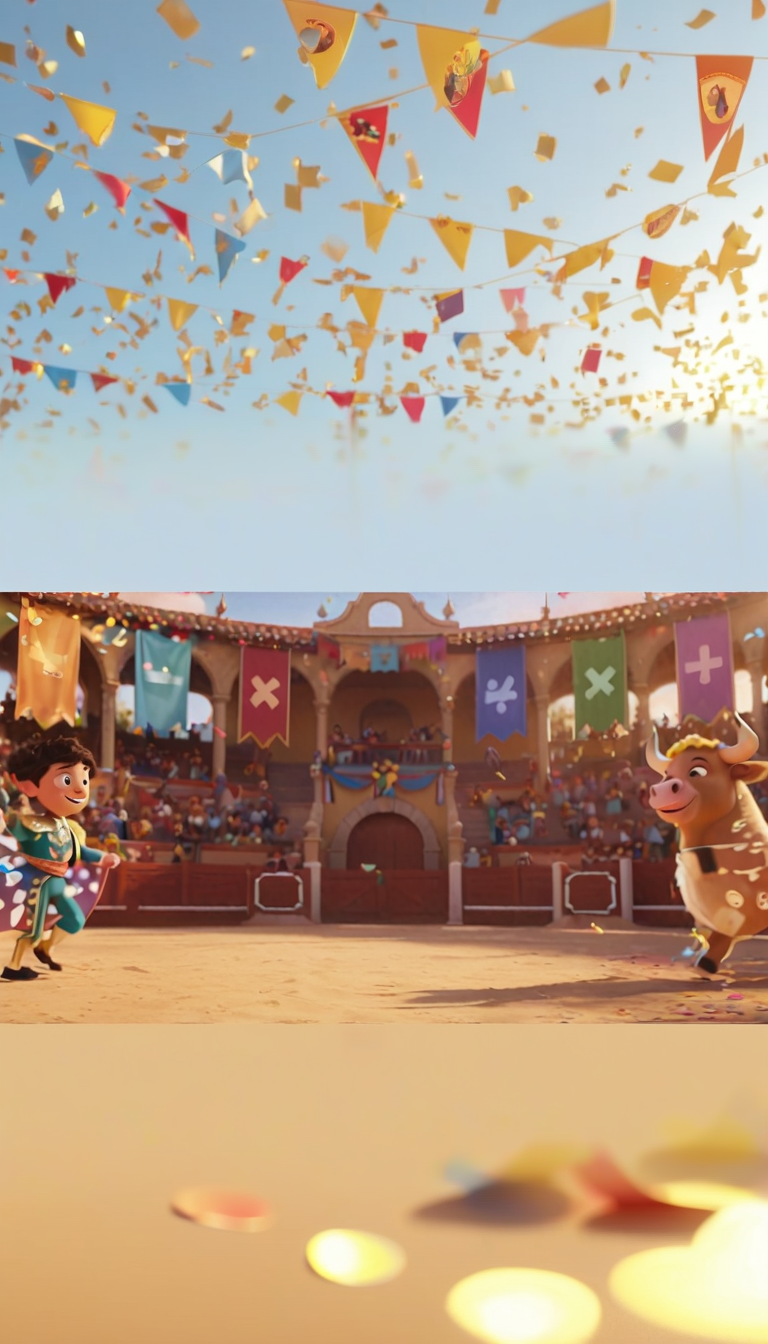
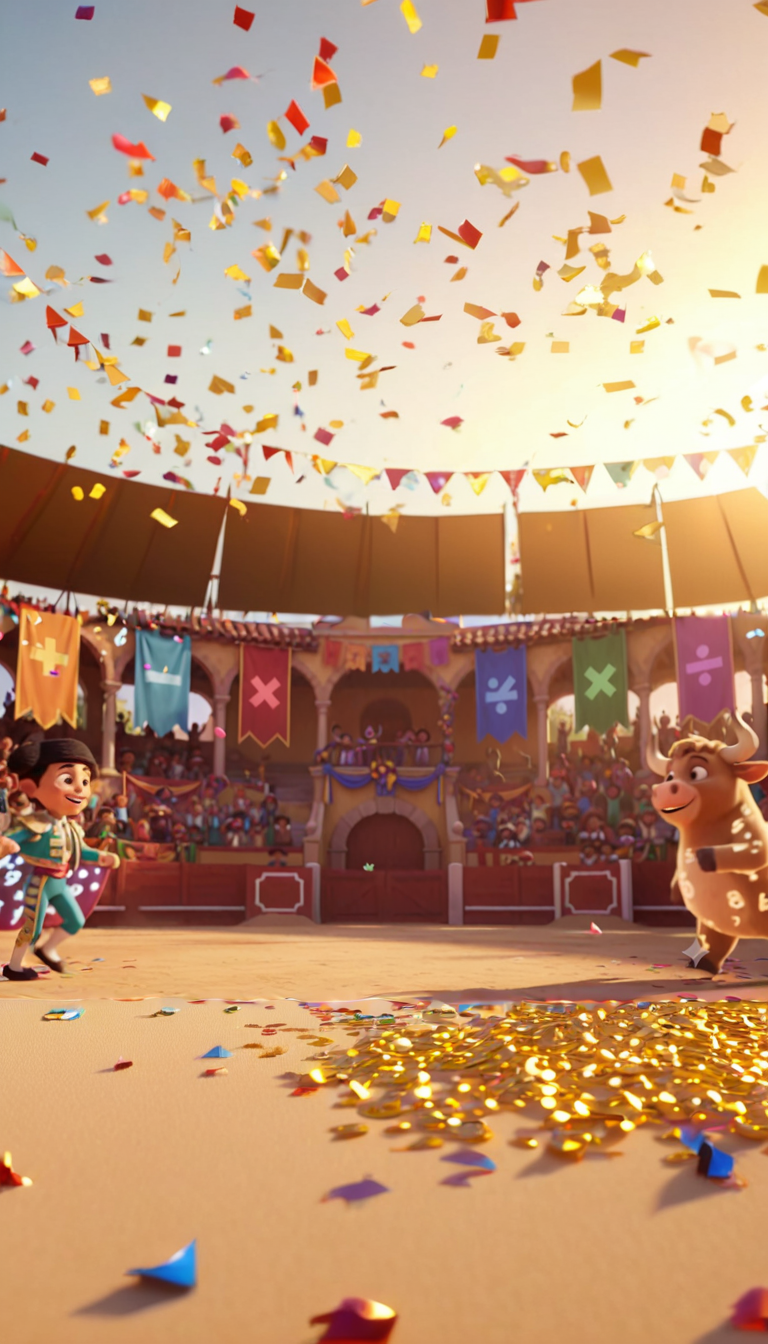
Switch all couple-scene backgrounds to single-pass outpainting
Replaces the two-pass hand-built-mask technique (screen-*.json +
screen-*-extend.json + mask-*.png) with ComfyUI's own ImagePadForOutpaint
+ VAEEncodeForInpaint nodes, which do the pad/feather/mask in one
purpose-built step directly from an unpadded character crop. Removes
the remaining visible seam that the mask-based two-pass version still
had on Game and Result, and gives Home the same fix for consistency.

Also documents that the ComfyUI instance moved: the original
(D:\confyiu, port 8000) had its Desktop-app instance record and
.venv accidentally deleted, so a fresh instance was created and
reconnected to the same D:\confyiu\models directory via
extra_model_paths.yaml rather than re-downloading ~20GB of
checkpoints. comfy-mcp's COMFYUI_URL still points at the old port
until its MCP connection is restarted.

diff --git a/mathematador-app/assets/working/comfy-workflows/README.md b/mathematador-app/assets/working/comfy-workflows/README.md
@@ -27,8 +27,27 @@ concept sketch — **not** this reference. Don't seed generations from it.
 
 ## Setup this assumes
 
-- A running ComfyUI instance (the user's ComfyUI Desktop app, `D:\confyiu`, port 8000
-  in this session — adjust host/port to whatever's current).
+- A running ComfyUI instance. **As of 2026-09-21, this moved**: the original
+  instance (`D:\confyiu`, port 8000) had its Desktop-app instance record and
+  its `.venv` deleted by accident. Rather than restore it, a fresh instance
+  was created through the Desktop app's own "New Instance" flow — it lives at
+  `D:\Comfy-Desktop\ComfyUI-Installs\ComfyUI\ComfyUI`, **port 8188** (auto-
+  assigned; check `C:\Users\<user>\AppData\Roaming\Comfy Desktop\port-locks\`
+  if it's changed again). `D:\confyiu` itself is untouched and still holds
+  every model/checkpoint — the new instance reads them via
+  `D:\Comfy-Desktop\ComfyUI-Installs\ComfyUI\ComfyUI\extra_model_paths.yaml`
+  (base_path `D:\confyiu\models`), so they were never re-downloaded. The five
+  custom node folders were copied by hand into the new instance's own
+  `custom_nodes/` (not shareable via extra_model_paths — ComfyUI loads node
+  code from its own folder) and their `requirements.txt` installed into the
+  new `.venv` with `UV_SYSTEM_CERTS=1` set first (same corporate-TLS
+  workaround as everywhere else in this repo). **`comfy-mcp`'s `COMFYUI_URL`
+  in `~/.claude.json` still points at the old port 8000** — updating it needs
+  the MCP connection restarted, which didn't happen this session, so this
+  session drove the new instance with raw `curl` against `/prompt`,
+  `/history/<id>`, `/upload/image`, `/view` directly instead. Update that env
+  var (or just keep using curl) before assuming `run_workflow` etc. work
+  again.
 - **`JuggernautXL_v9.safetensors`** (`RunDiffusion/Juggernaut-XL-v9` on Hugging Face,
   ~7.1GB) — the current checkpoint for stills. SDXL, native 1024x1024, far
   stronger prompt adherence than the SD1.5 checkpoints below. Slower per
@@ -74,54 +93,58 @@ what actually preserves it.** All three couple-scene workflows now use this;
 apply it to any future one seeding from a frame where the bull's numbers
 need to stay legible.
 
-## The visual, tweakable graph — `mathematador-universal.json`
+## The current technique: `ImagePadForOutpaint` + `VAEEncodeForInpaint`, one pass
 
-Everything above was submitted straight to ComfyUI's `/prompt` API
-(`comfy-mcp`'s `run_workflow`), which runs a workflow but never loads it into
-the ComfyUI GUI's canvas — nothing was ever visible/tweakable in the app
-window. `mathematador-universal.json` fixes that: it's a proper UI-format
-graph (node positions, visible links, an on-canvas usage note), saved at
-`D:\confyiu\user\default\workflows\mathematador.json` so it shows up directly
-in the ComfyUI Desktop app's own Workflows sidebar — open it there to inspect
-or hand-tweak any node. This copy in the repo is a backup; the live one to
-edit is the one in ComfyUI's own user-data folder.
+Earlier attempts (kept below for context, but don't repeat them) used a
+hand-rolled two-pass approach: pad the character crop with solid-color bands
+in Python, generate the character at low denoise, then run a *second*
+workflow with a hand-built soft-edge mask PNG to regenerate just the padding.
+It worked but always left at least a faint seam.
 
-It also uses a cleaner technique than the two-pass hack below: ComfyUI's
-built-in `ImagePadForOutpaint` + `VAEEncodeForInpaint` nodes do the
-pad+feather+mask in one built-for-purpose step, instead of a hand-rolled
-Python mask script and a separate second workflow. Feed it any unpadded
-character crop (`reference-couple-gesture-unpadded.png` is the one currently
-loaded) and it extends it to a full portrait background in a single
-KSampler pass, with the character region fully protected regardless of the
-(intentionally 1.0) denoise value — read the note node on the canvas itself
-for the exact how-to. **Prefer this graph over the `screen-*.json` /
-`screen-*-extend.json` two-pass approach below for anything new**; that
-section is kept only as a record of what didn't work as well.
+**`screen-home-extend.json` / `screen-game-extend.json` /
+`screen-result-extend.json` now all use ComfyUI's own built-in outpainting
+nodes instead — one pass, no Python mask script:**
 
-## Key finding: the low-denoise couple scenes need a second masked pass (superseded, see above)
+1. `LoadImage` — an **unpadded** character crop (`reference-couple-*-
+   unpadded.png`; a real `intro.mp4` frame, dynamic pose, resized to 768 wide,
+   no color bands added).
+2. `ImagePadForOutpaint(image, left, top, right, bottom, feathering=80)` —
+   pads to the target canvas (768x1344) and outputs both the padded image
+   and a correctly-feathered mask in one step. `feathering` below ~80 still
+   leaves a visible ring at the boundary; 80 is the current minimum that
+   doesn't.
+3. `VAEEncodeForInpaint(pixels, vae, mask, grow_mask_by=6)` → `KSampler`
+   at **denoise 1.0** — this is correct, not a bug: the mask (not denoise)
+   is what protects the character region regardless of the denoise value.
+4. One `CLIPTextEncode` conditions the *entire* masked region (both the top
+   and bottom bands) at once — write it as two explicit clauses ("above the
+   roofline: ...", "below the floor: ...") or content invented for one end
+   bleeds into the other (an early attempt asked only for "terracotta roof
+   tiles above" and got upside-down roof tiles at the bottom too). Negative-
+   prompt "archway, arch, tunnel, foreground pillar" — otherwise the model
+   invents an unrelated foreground structure at the top instead of
+   continuing the same wall.
 
-The denoise-0.3 fix above (preserving the bull's numbers) leaves the solid
-sky-blue/sand-tan padding bands from the seed-image construction almost
-untouched too — they read as flat, obviously-fake color gaps top and bottom.
-Fix: a **second pass**, `screen-*-extend.json`, that masks OUT the already-
-correct character band (protect, denoise ~0) and masks IN just the top/bottom
-padding (regenerate at denoise 0.95) via `SetLatentNoiseMask` + a hand-built
-soft-edge mask PNG (`mask-*.png` — white=regenerate, black=protect, black,
-~150-180px gaussian-style feather at the boundary; a hard-edge mask produces
-a visible seam even at full protect/regenerate contrast). Two more gotchas
-found fixing this:
-- The single `CLIPTextEncode` conditions the WHOLE masked region (both top
-  and bottom bands) at once — describing only the top ("terracotta roof
-  tiles above") bled into the bottom too and produced upside-down roof tiles
-  where a sandy floor should be. Write the prompt as two explicit clauses,
-  one for "above the roofline" content, one for "below the floor" content.
-  A generic archway/architecture description can also get invented for the
-  top if the prompt doesn't explicitly ask for a *continuation of the same*
-  wall — negative-prompt "archway, arch, tunnel, foreground pillar" to
-  suppress that.
-- Feather narrower than ~150px still leaves a faint but visible ring at the
-  boundary. Widen it rather than trying to hide it with a fully-opaque
-  boundary.
+`mathematador-universal.json` is the same technique authored as a proper
+UI-format graph (node positions, visible links, an on-canvas usage note)
+instead of a raw API-format file — it's saved live at
+`D:\Comfy-Desktop\ComfyUI-Installs\ComfyUI\ComfyUI\user\default\workflows\
+mathematador.json` (the *original* copy was at the old instance's
+`D:\confyiu\user\...` before the instance move above) so it shows up
+directly in the ComfyUI Desktop app's own Workflows sidebar — open it there
+to inspect or hand-tweak any node. This repo copy is a backup; the live one
+to actually edit is the one in ComfyUI's own user-data folder. Its `LoadImage`
+still points at the old `home_unpadded.png` filename — re-upload whichever
+crop you want and repoint that node before running it again.
+
+## Key finding: the low-denoise couple scenes need the padding regenerated separately
+
+The denoise-0.3 fix above (preserving the bull's numbers) only touches the
+character region — the solid sky-blue/sand-tan padding bands from the
+seed-image construction come out of that pass almost untouched, reading as
+flat, obviously-fake color gaps top and bottom. That's what the outpainting
+pass above fixes; it doesn't fix itself; you need both passes in sequence
+(character generation, *then* outpaint extension) for a finished image.
 
 ## Files
 
@@ -145,13 +168,14 @@ found fixing this:
   `reference-bull-alone.png` are separate single-character crops, prepared for
   IPAdapter but not yet used.
 - `screen-home-extend.json` / `screen-game-extend.json` /
-  `screen-result-extend.json` — pass 2, run on pass 1's own output (re-upload
-  it to ComfyUI's input folder first) with `mask-home.png` / `mask-game.png` /
-  `mask-result.png`: replaces the flat padding bands with real extended scenery
-  while leaving the character band untouched. See the masked-pass finding
-  above before reusing this on a new image — the mask boundaries
-  (`pad_top`/`pad_bottom` baked into each PNG) are specific to that image's
-  own crop, not reusable as-is for a different composition.
+  `screen-result-extend.json` — pass 2: takes the corresponding **unpadded**
+  reference crop directly (`reference-couple-gesture-unpadded.png` /
+  `-running-unpadded.png` / `-jumping-unpadded.png`) and runs it through the
+  `ImagePadForOutpaint` + `VAEEncodeForInpaint` technique above — no
+  intermediate pass-1 output or hand-built mask needed. The `top`/`bottom`
+  pad amounts baked into each file are specific to that crop's own height;
+  recompute them (`1344 - crop_height`, split however you want between top
+  and bottom) for a different crop.
 - `intro-video.json` — AnimateDiff/LCM portrait video (576x1024, 32 frames,
   8fps). Seeded from `reference-crop-intro-portrait.png`, edge-STRETCHED
   (not solid-fill) padding — **known bug**: at denoise 0.4 the legs render as
